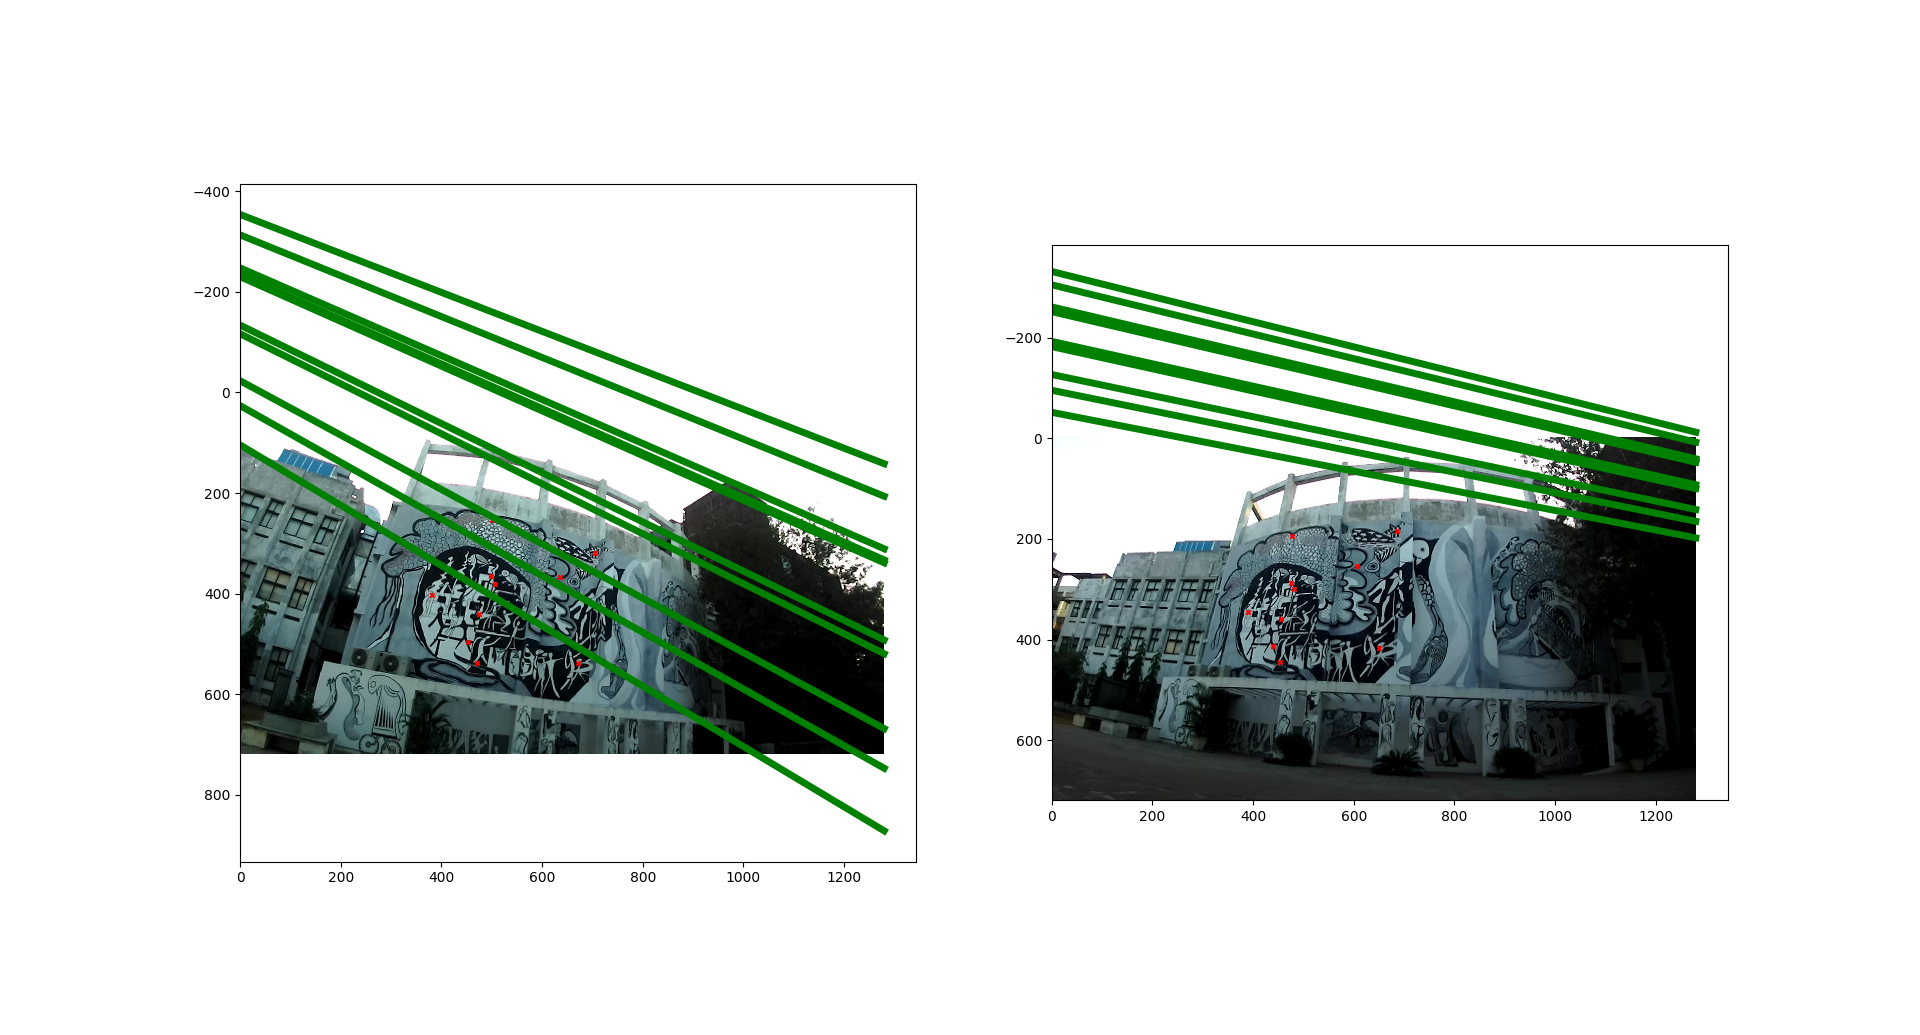
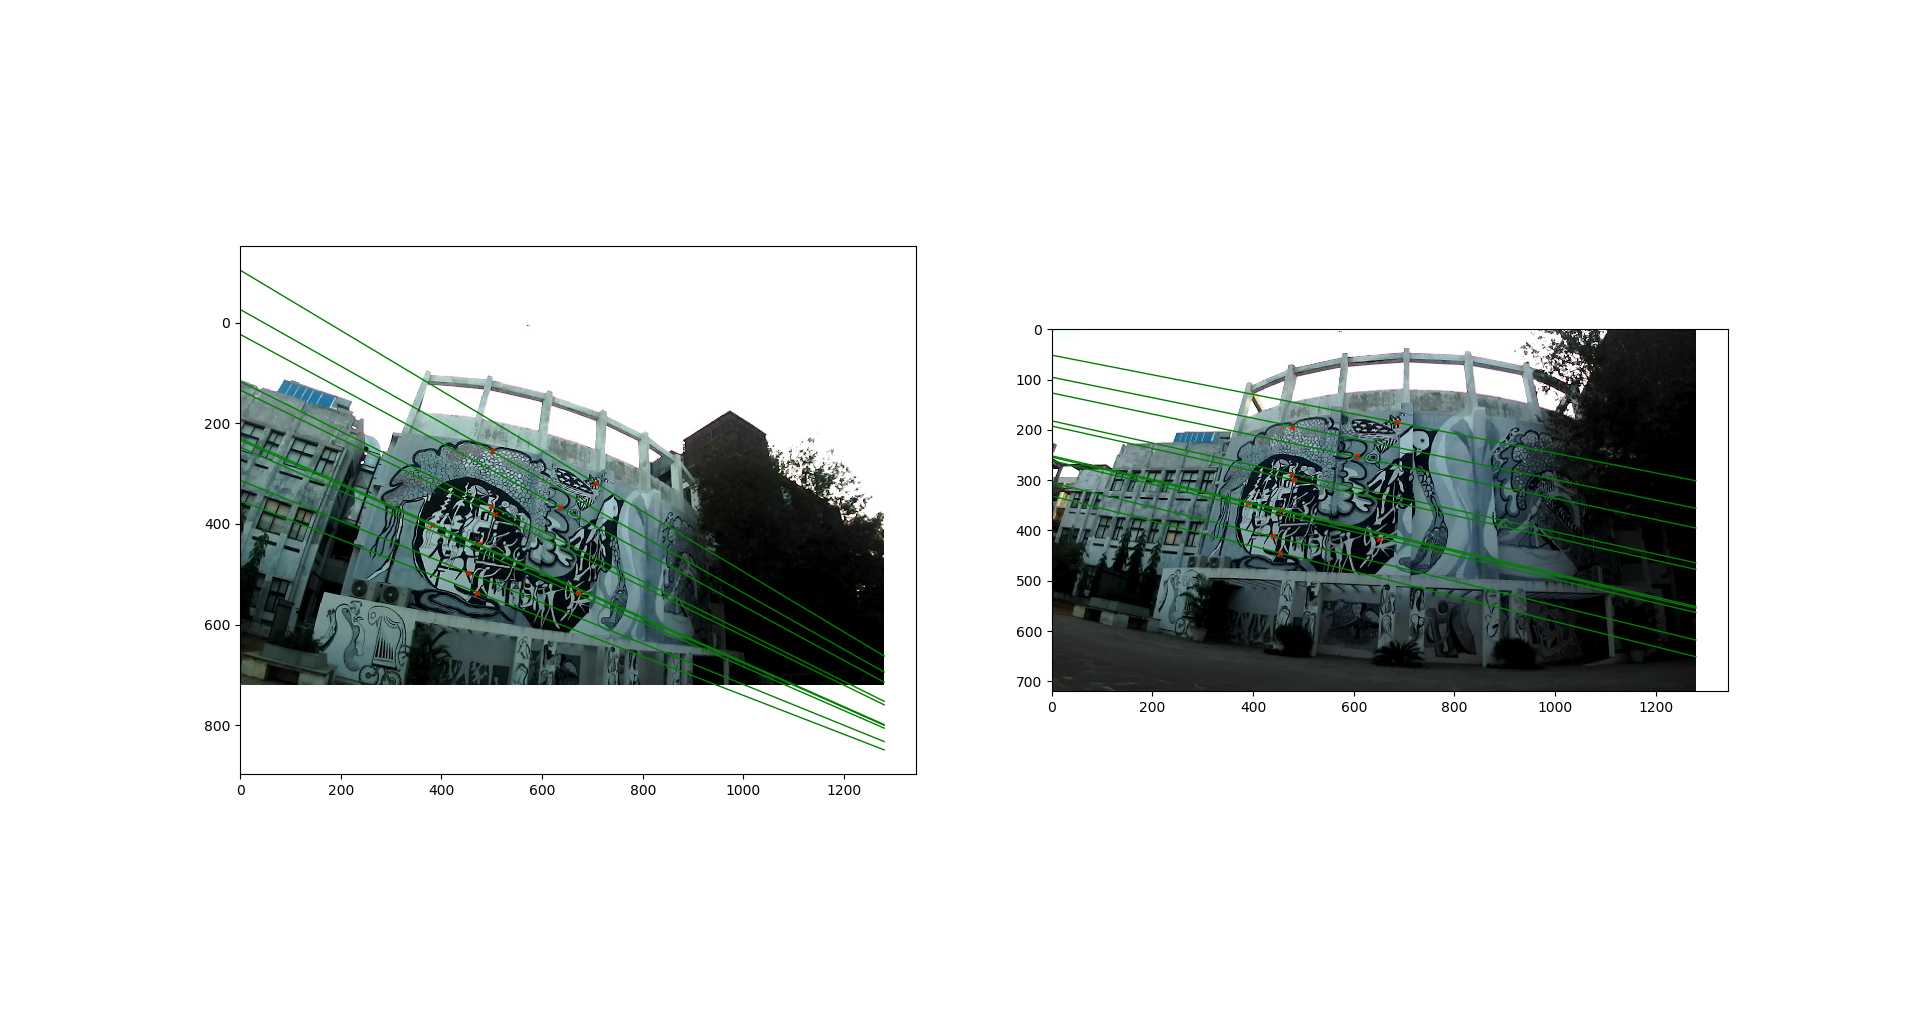
Fixed question 1, found epipoles

diff --git a/q1/q1.py b/q1/q1.py
@@ -2,6 +2,7 @@ import matplotlib.image as mpimg
 import matplotlib.pyplot as plt 
 from mpl_toolkits.mplot3d.art3d import Poly3DCollection, Line3DCollection
 import numpy as np
+from scipy.linalg import null_space
 
 F_mat = [[-1.29750186e-06,  8.07894025e-07,  1.84071967e-03], \
 		[3.54098411e-06,  1.05620725e-06, -8.90168709e-03], \
@@ -10,7 +11,6 @@ F_mat = [[-1.29750186e-06,  8.07894025e-07,  1.84071967e-03], \
 
 F_mat = np.array(F_mat)
 img1_points = np.array([[381, 402], [452, 497], [671, 538], [501, 254], [506, 381], [474, 440], [471, 537], [498, 364], [706, 319], [635, 367]])
-
 img2_points = np.array([[390, 346], [439, 412], [651, 417], [477, 194], [482, 300], [456, 359], [454, 444], [475, 287], [686, 185], [606, 253]])
 
 newrow = [1] * img1_points.shape[0]
@@ -18,15 +18,19 @@ newrow = np.array([newrow])
 img1_points = np.concatenate((img1_points, newrow.T), axis=1)
 img2_points = np.concatenate((img2_points, newrow.T), axis=1)
 
+print('Image 1 points:')
 print(img1_points)
+print('Image 2 points:')
 print(img2_points)
 
 eqs1 = np.matmul(F_mat.T, img2_points.T).T
 eqs2 = np.matmul(F_mat, img1_points.T).T
 
-x = np.linspace(0, 1280, 1280)
+x = np.linspace(0, 1280, 1281)
 
+print('Image 1 equations:')
 print(eqs1)
+print('Image 2 equations:')
 print(eqs2)
 
 plt.subplot(1, 2, 1)
@@ -36,24 +40,55 @@ plt.imshow(img1)
 plt.scatter(x=img1_points[:, 0], y=img1_points[:, 1], c='r', s=10, marker='x', zorder=2)
 
 for line in eqs1:
+<<<<<<< HEAD
+	y = (-line[2] - line[0] * x)/line[1]
+	plt.plot(x, y, c='g', linewidth=1)
+=======
 	y = -(line[2] + line[0] * x)/line[1]
 	plt.plot(x, y, c='g', linewidth=2, zorder=1)
+>>>>>>> 1b5c5478e9ff1d0bd102d8420715300869d1d13f
 
 plt.subplot(1, 2, 2)
 img2 = mpimg.imread('img2.jpg')
 
+<<<<<<< HEAD
+plt.imshow(img2)
+plt.scatter(x=img2_points[:, 0],y=img2_points[:, 1], c='r', s=10, marker='x')
+
+for line in eqs2:
+	y = (-line[2] - line[0] * x)/line[1]
+	plt.plot(x, y, c='g', linewidth=1)
+=======
 plt.imshow(img2) 
 plt.scatter(x=img2_points[:, 0], y=img2_points[:, 1], c='r', s=10, marker='x', zorder=2)
 
 for line in eqs2:
 	y = -(line[2] + line[0] * x)/line[1]
 	plt.plot(x, y, c='g', linewidth=2, zorder=1)
+>>>>>>> 1b5c5478e9ff1d0bd102d8420715300869d1d13f
 
 mng = plt.get_current_fig_manager()
 mng.full_screen_toggle()
 plt.show()
 
-print(img2_points.shape, F_mat.shape, img1_points.shape)
+# To check whether the epipolar equation is satisfied.
+# for i in range(10):
+# 	print(np.matmul(img2_points[i], np.matmul(F_mat, img1_points[i].T)))
 
-for i in range(10):
-	print(np.matmul(img2_points[i], np.matmul(F_mat, img1_points[i].T)))
+u,s,v = np.linalg.svd(F_mat, full_matrices=True)
+s[2] = 0
+F_mat = u@np.diag(s)@v
+
+e1 = null_space(F_mat)
+e1[0, :] /= e1[2, :]
+e1[1, :] /= e1[2, :]
+e1[2, :] /= e1[2, :]
+print("epipole1 ", e1.T)
+
+e2 = null_space(F_mat.T)
+e2[0, :] /= e2[2, :]
+e2[1, :] /= e2[2, :]
+e2[2, :] /= e2[2, :]
+print("epipole2 ", e2.T)
+
+print(v.T)
